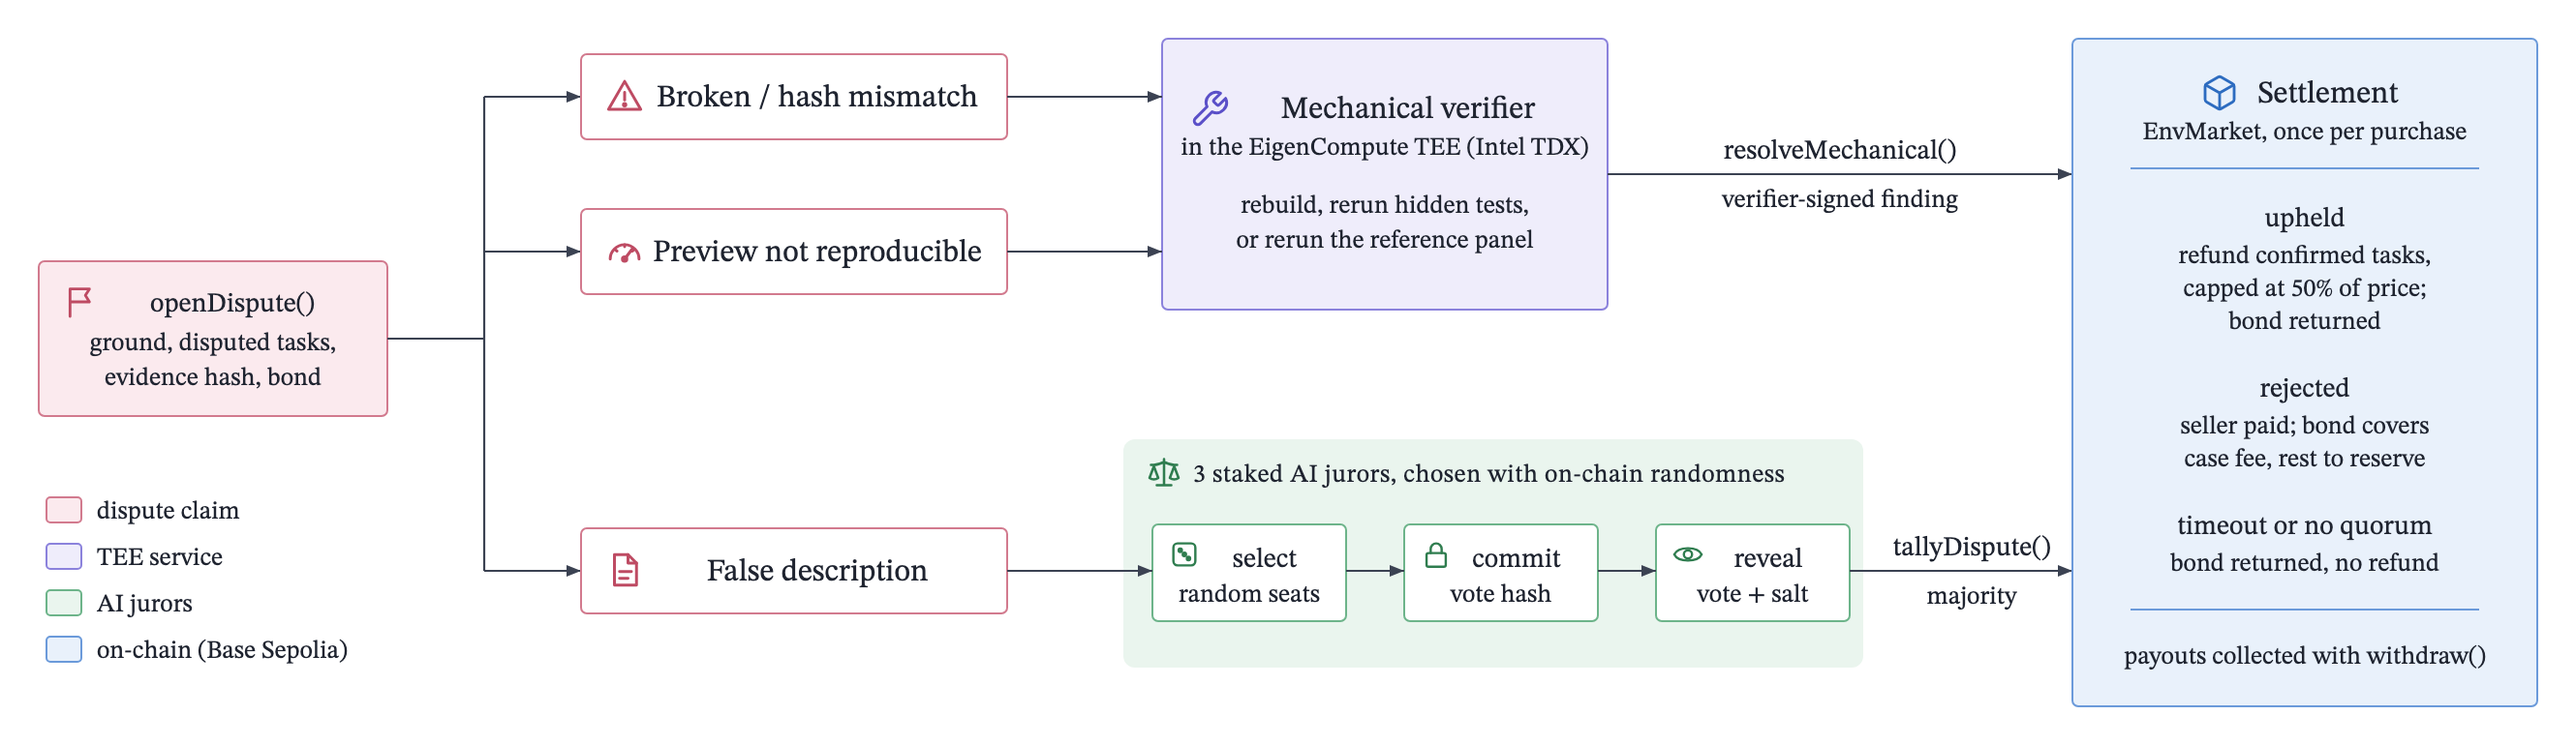
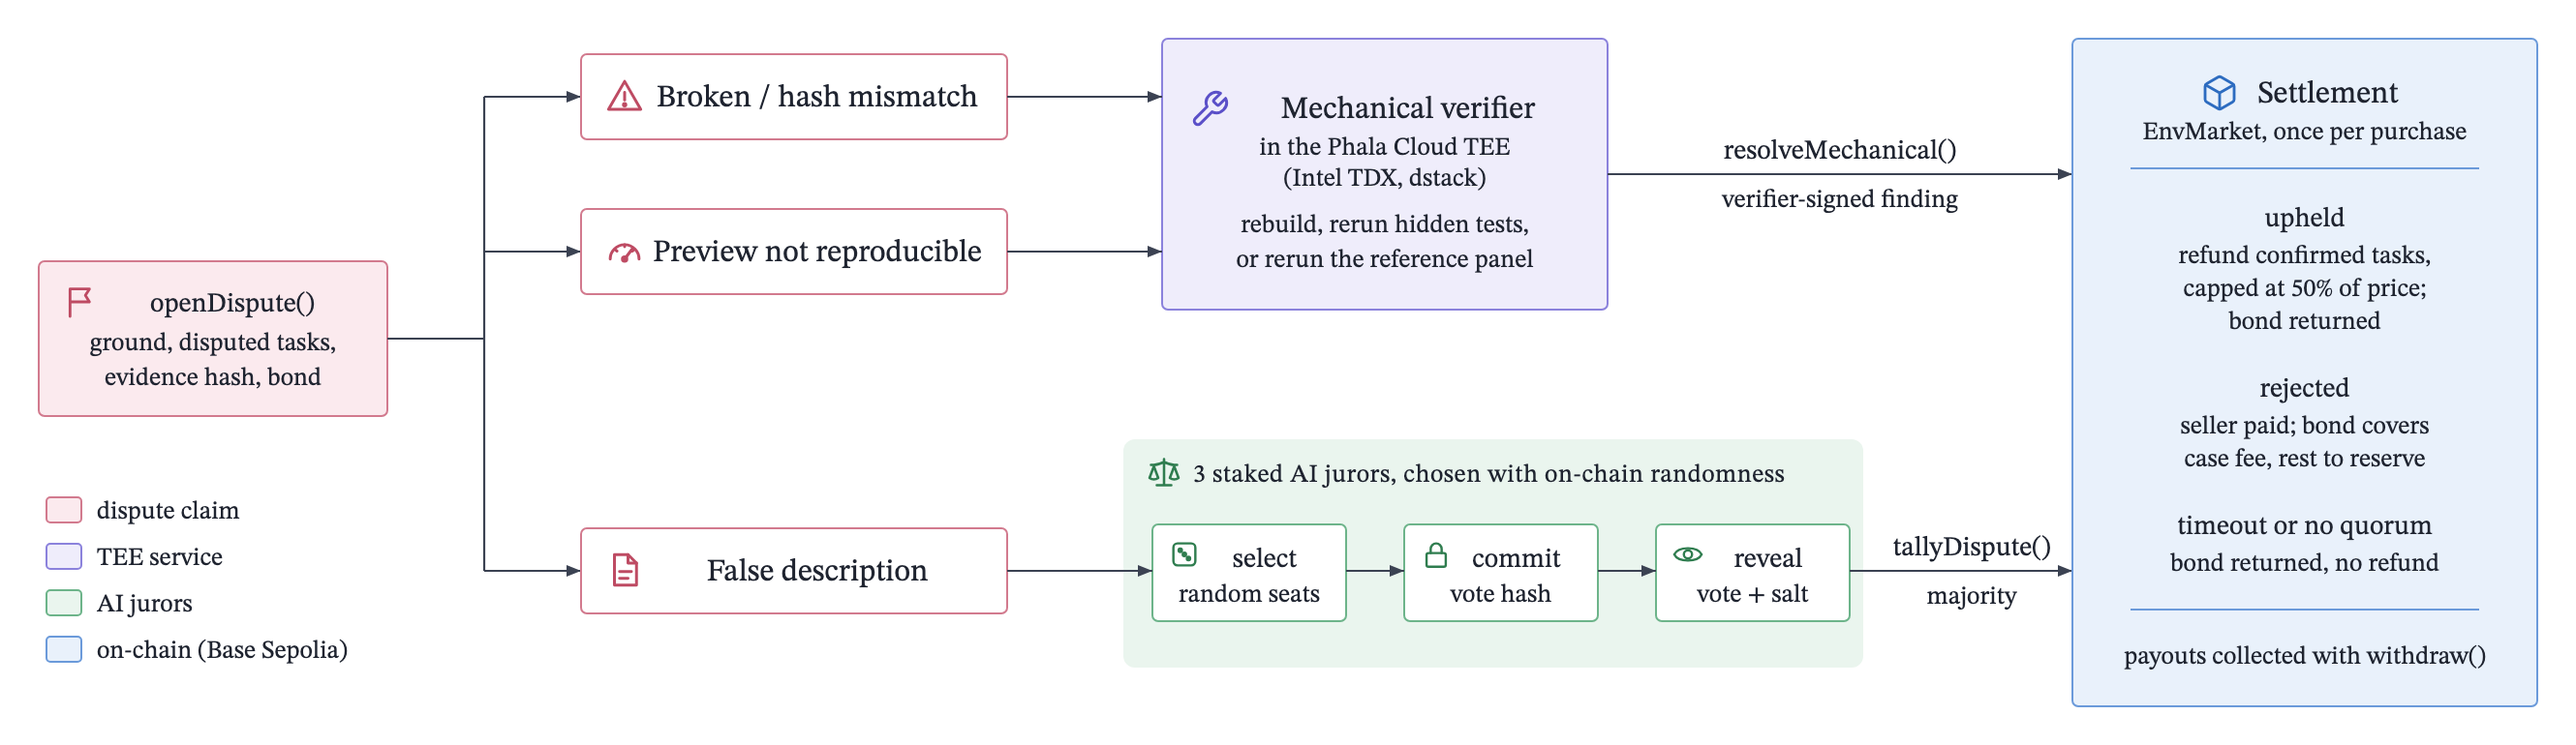
docs: TEE is Phala Cloud (Intel TDX, dstack); trust assumptions (Phala KMS operator, developer can push images, signer stable per app id); diagrams relabeled and re-rendered
Claude-Session: https://claude.ai/code/session_01YUsWauWzmr1tK9SUbgQWUy

Changed region(s): [[0.468, 0.187, 0.6241, 0.374]]

diff --git a/docs/diagrams/dispute.html b/docs/diagrams/dispute.html
@@ -47,9 +47,10 @@
   <rect x="600" y="55" width="230" height="140" rx="3" fill="#efedfb" stroke="#8b82dc" stroke-width="1"/>
   <use href="#i-wrench" x="614" y="81" width="21" height="21" style="color:#5b50c8"/>
   <text class="b" x="727" y="96" text-anchor="middle">Mechanical verifier</text>
-  <text class="s" x="715" y="115" text-anchor="middle" fill="#3f36a0">in the EigenCompute TEE (Intel TDX)</text>
-  <text class="s" x="715" y="145" text-anchor="middle">rebuild, rerun hidden tests,</text>
-  <text class="s" x="715" y="163" text-anchor="middle">or rerun the reference panel</text>
+  <text class="s" x="715" y="115" text-anchor="middle" fill="#3f36a0">in the Phala Cloud TEE</text>
+  <text class="s" x="715" y="131" text-anchor="middle" fill="#3f36a0">(Intel TDX, dstack)</text>
+  <text class="s" x="715" y="155" text-anchor="middle">rebuild, rerun hidden tests,</text>
+  <text class="s" x="715" y="173" text-anchor="middle">or rerun the reference panel</text>
   <path d="M520,85 H600" fill="none" stroke="#3b4252" stroke-width="1.1" marker-end="url(#mD)"/>
   <path d="M520,165 H600" fill="none" stroke="#3b4252" stroke-width="1.1" marker-end="url(#mD)"/>
   <rect x="580" y="262" width="382" height="118" rx="6" fill="#eaf5ee" stroke="none"/>

diff --git a/docs/diagrams/components.html b/docs/diagrams/components.html
@@ -30,7 +30,7 @@
   </defs>
   <rect x="220" y="80" width="300" height="480" rx="6" fill="#efedfb" stroke="none"/>
   <use href="#i-chip" x="232" y="88" width="17" height="17" style="color:#5b50c8"/>
-  <text class="g" x="255" y="101" fill="#3f36a0">EigenCompute TEE (Intel TDX)</text>
+  <text class="g" x="255" y="101" fill="#3f36a0">Phala Cloud TEE (Intel TDX, dstack)</text>
   <rect x="1040" y="80" width="330" height="580" rx="6" fill="#e9f1fb" stroke="none"/>
   <use href="#i-link" x="1052" y="88" width="17" height="17" style="color:#2d6cc0"/>
   <text class="g" x="1075" y="101" fill="#1f4f94">Base Sepolia</text>

diff --git a/README.md b/README.md
@@ -13,7 +13,7 @@ The first vertical is **coding-repair environments with hidden unit tests**. The
 | EnvMarket (Base Sepolia, 84532) | `0x2fd644342296df7de57929fa87bd65c05fb415f8` · [basescan](https://sepolia.basescan.org/address/0x2fd644342296df7de57929fa87bd65c05fb415f8) · [blockscout](https://base-sepolia.blockscout.com/address/0x2fd644342296df7de57929fa87bd65c05fb415f8) |
 | EnvMarketViews (read module, delegatecalled from EnvMarket) | `0xf020ec9a3381dfa34a03ad2f8bdb5cae7e890794` · [basescan](https://sepolia.basescan.org/address/0xf020ec9a3381dfa34a03ad2f8bdb5cae7e890794) · [blockscout](https://base-sepolia.blockscout.com/address/0xf020ec9a3381dfa34a03ad2f8bdb5cae7e890794) |
 | TestUSDC (`tUSDC`, 6 decimals, public faucet, no value) | `0x6f3600d4a42d0c6c52a8b9f04abf817ce7d56ceb` · [basescan](https://sepolia.basescan.org/address/0x6f3600d4a42d0c6c52a8b9f04abf817ce7d56ceb) · [blockscout](https://base-sepolia.blockscout.com/address/0x6f3600d4a42d0c6c52a8b9f04abf817ce7d56ceb) |
-| EigenCompute TEE app (`sepolia` env, Intel TDX) | **TBD**: app id, signer address and `verify-sepolia.eigencloud.xyz` link go here once `deployments/eigencompute-sepolia.json` exists |
+| Phala Cloud TEE app (dstack CVM, Intel TDX) | **TBD**: endpoint, app id, signer and `trust.phala.com` link go here once `deployments/phala-tee.json` exists |
 
 Deployed 2026-09-11 from block 46670333; the full record is in [deployments/84532.json](deployments/84532.json). All calls, views included, go to the EnvMarket address with the merged ABI.
 
@@ -35,7 +35,7 @@ The full design is in [docs/RL_ENV_MARKET.md](docs/RL_ENV_MARKET.md), with the d
 ## What's real, what's testnet
 
 Real:
-- **TEE.** One Intel TDX app on EigenCompute's `sepolia` environment runs the preview runner, key relay, mechanical verifier and evidence server. Its keys come from EigenCloud KMS, and a KMS-signed attestation JWT binds the signer and encryption key to the image. Local dev mode exists for tests and labels its reports `none-local-dev`.
+- **TEE.** One Intel TDX confidential VM on Phala Cloud (dstack) runs the preview runner, key relay, mechanical verifier and evidence server. Its signer comes from Phala's KMS (dstack `GetKey`, deterministic per app id), and a raw Intel DCAP quote whose `report_data` is `sha512(binding)` ties the signer and encryption key to a compose file that pins the image by digest. The web app re-checks the quote through Phala's public verifier, replays RTMR3 and reads the signer's roles from the chain. EigenCompute is still supported (`TEE_VENDOR=eigencompute`) but not deployed: its app quota needs manual EigenLabs approval. Local dev mode exists for tests and labels its reports `none-local-dev`.
 - **Inference.** Fireworks serves the reference panel `glm-5p3` (GLM 5.3), `kimi-k3` (Kimi K3) and `qwen3p8-max` (Qwen 3.8). Episodes run in [`harness/envmarket_coding`](harness/README.md), built on Prime Intellect's open-source `verifiers` 0.3.1. The tools are generated from the environment's manifest, and buyers can load the same environment into `vf-eval` or prime-rl. The validator is `deepseek-v4-pro-0813`. The jurors are `deepseek-v4p1-flash`, `gpt-oss-120b` and `glm-5p2`.
 - **Crypto.** Bundles are AES-256-GCM. Keys are wrapped with HPKE (RFC 9180), and task commitments use salted OpenZeppelin Merkle trees. Reports, receipts and findings are EIP-712 signatures, verified on-chain.
 - **Chain.** Escrow, reserved collateral, delivery and challenge deadlines, three dispute grounds, on-chain juror selection, commit-reveal, tally, majority rewards and minority/non-reveal slashing are all in the contract. So are capped per-task refunds, seller-paid preview fees, reputation and pull payments. Every flow is a real Base Sepolia transaction.
@@ -45,7 +45,10 @@ Testnet: the token is TestUSDC and **has no value**. The stakes, bonds and colla
 
 ## Trust assumptions
 
-- **TEE operator, Intel TDX and EigenCloud KMS.** Confidentiality of seller bundles, audit tasks and keys depends on TDX and on EigenLabs' KMS. The app developer can upgrade the image; attestation shows which image is running, not that it is the right one. Storage is ephemeral: if the VM is replaced, undelivered versions fall back to `refundUndelivered`.
+- **Intel TDX, Phala Cloud and Phala's KMS.** Confidentiality of seller bundles, audit tasks and keys depends on TDX and on Phala's KMS operator, who is trusted: with `--kms phala`, that one KMS derives the app key and authorizes compose updates. The attestation shows which compose and image are running, not that they are the right ones.
+  - *The developer can push a new image.* I can deploy a new compose or image to the same app id at any time. The quote would show the new compose hash, but nothing on-chain stops the update.
+  - *The signer survives upgrades.* The signer is derived from the app id's key, so it stays the same across `phala deploy --cvm-id` updates and keeps its on-chain roles. A different app id gets a new signer, and its roles have to be re-granted.
+  - *Storage.* Data lives on the CVM's encrypted disk volume. If the CVM is deleted, undelivered versions fall back to `refundUndelivered`.
 - **Fireworks sees task text.** Inference runs outside the attested boundary. During previews, Fireworks sees task statements, workspace files and, for the validator, environment source. During disputes, the jurors' provider sees case excerpts. Production would move inference inside the boundary.
 - **One TEE signer holds three roles.** The same KMS-derived key is runner, relay and verifier. If it is compromised, it can sign false reports, false deliveries and false findings. The contract caps the damage at the 50% refund cap plus penalties; it cannot reach escrow or balances directly.
 - **The owner key sets roles.** The deployer can change params for future purchases, set the runner, relay and verifier, approve jurors and withdraw the treasury and reserve. It cannot touch escrow, collateral, bonds, stakes or claimable balances. Ownership transfer is single-step, with no multisig.
@@ -111,7 +114,7 @@ Tests:
 ```
 contracts/          Foundry: EnvMarket (+ Views module via delegatecall), TestUSDC, tests, deploy scripts, security review
 packages/shared/    TS library: canonical tar, commitments/Merkle, HPKE key wrap, EIP-712, schemas, LLM client, ABI
-services/tee/       The EigenCompute TEE service: upload checks, paid previews, key relay, mechanical verifier, evidence
+services/tee/       The TEE service (Phala Cloud dstack; EigenCompute supported): upload checks, paid previews, key relay, mechanical verifier, evidence
 services/jurors/    Three AI juror agents: keeper, case-packet fetch, rubric, commit-reveal, rationale publishing
 harness/            envmarket_coding: reference harness on Prime Intellect verifiers 0.3.1 (usable in vf-eval / prime-rl)
 agents/             Seller and buyer agent CLIs (package, list, buy, decrypt, inspect claims, dispute), e2e orchestrator

diff --git a/docs/RL_ENV_MARKET.md b/docs/RL_ENV_MARKET.md
@@ -28,7 +28,7 @@ The structure follows the separation of components and operations in the [Aave v
 
 Arrows show transfers of data or funds, including event-triggered work; the contract does not execute off-chain services. Audit tasks use separate storage objects and keys and are excluded from buyer delivery. Dispute evidence is shared privately with assigned reviewers.
 
-In the current deployment the off-chain services run as one EigenCompute TEE app (Intel TDX, EigenCompute `sepolia` environment) whose signer holds the runner, relay and verifier roles; reference and validator models are called through Fireworks; the contract and Test USDC (no value) are on the Base Sepolia testnet. Proceeds, refunds and juror rewards are credited on-chain and collected with `withdraw()`. The HTML sources for all diagrams in this document are in [docs/diagrams/](diagrams/).
+In the current deployment the off-chain services run as one Phala Cloud TEE app (Intel TDX, dstack confidential VM) whose signer holds the runner, relay and verifier roles; reference and validator models are called through Fireworks; the contract and Test USDC (no value) are on the Base Sepolia testnet. Proceeds, refunds and juror rewards are credited on-chain and collected with `withdraw()`. The HTML sources for all diagrams in this document are in [docs/diagrams/](diagrams/).
 
 | Component | Responsibility |
 |---|---|
@@ -61,7 +61,7 @@ These are proposed state names for the existing purchase flow. Each purchase fre
 - Each purchase settles once. A timely dispute blocks normal finalization, and each defect can receive its allowed remedy only once.
 - Public chain data contains commitments and outcomes. Plaintext tasks, private logs, and decryption keys stay off-chain with controlled access.
 
-The demo uses one marketplace contract plus Test USDC (no value) on Base Sepolia. The runner, report signer, delivery relay, and mechanical verifier run in an EigenCompute TEE (Intel TDX) with real attestation; the juror processes run outside it and are trusted. Model inference goes to Fireworks, outside the attested boundary (see the verification section). Production moves inference inside that boundary. Neither a signature nor attestation proves training value or a juror’s correctness.
+The demo uses one marketplace contract plus Test USDC (no value) on Base Sepolia. The runner, report signer, delivery relay, and mechanical verifier run in a Phala Cloud TEE (Intel TDX, dstack) with real attestation; the juror processes run outside it and are trusted. Model inference goes to Fireworks, outside the attested boundary (see the verification section). Production moves inference inside that boundary. Neither a signature nor attestation proves training value or a juror’s correctness.
 
 This is a build plan, not a claim that anything has been deployed.
 
